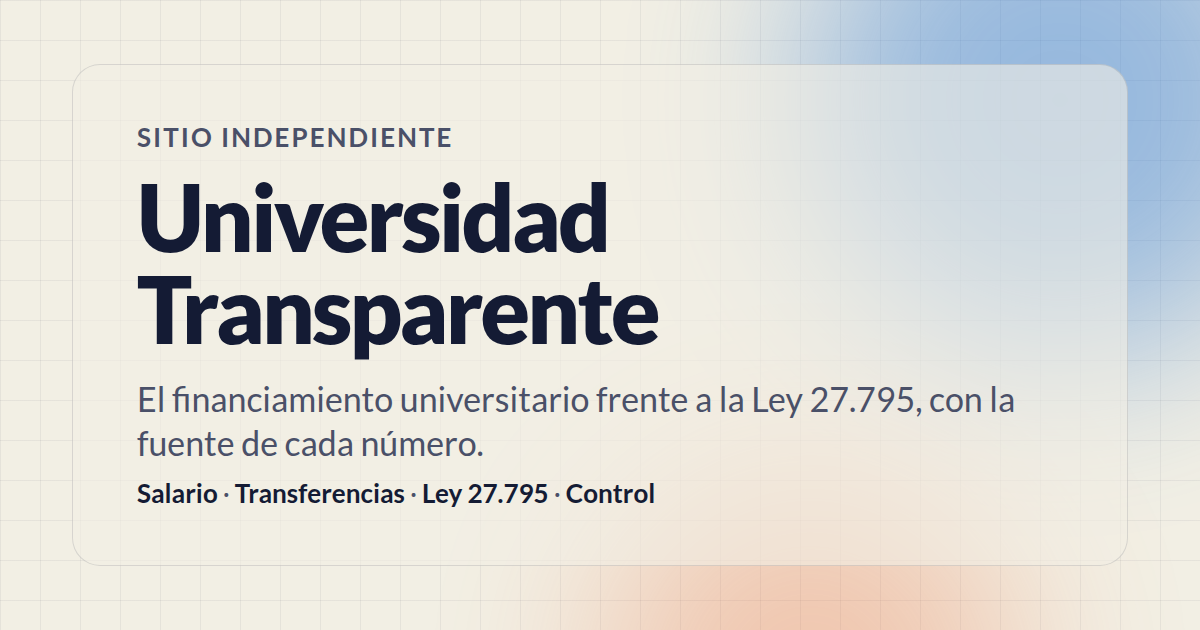
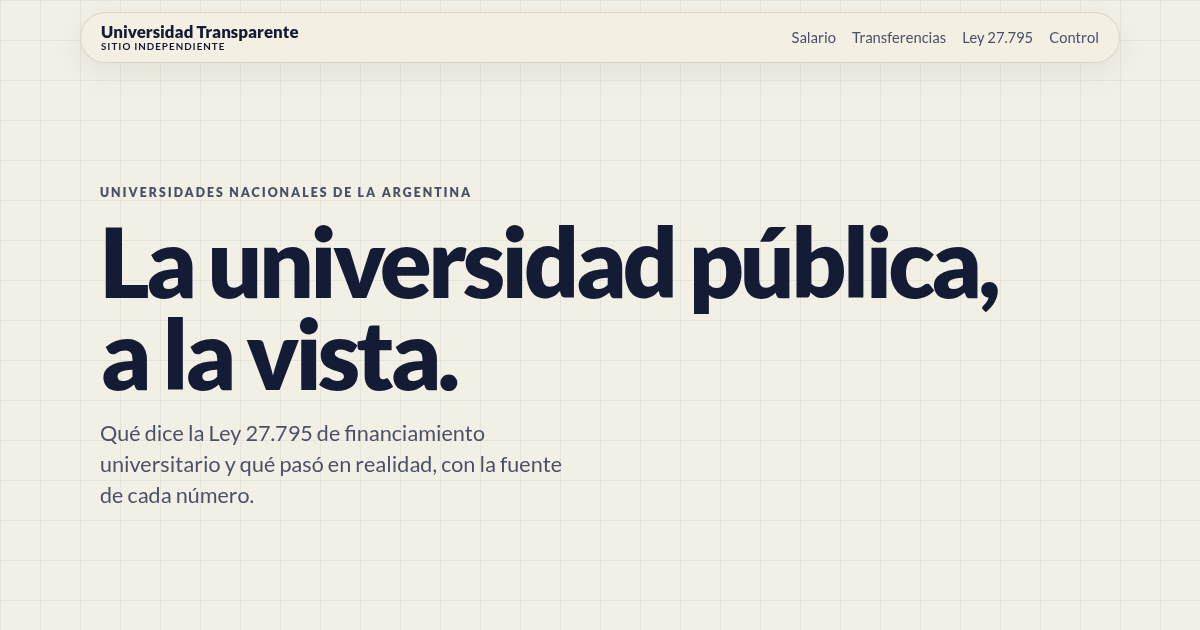
Vista previa al compartir: la imagen reproduce la portada del sitio

diff --git a/app/templates/base.html b/app/templates/base.html
@@ -17,7 +17,7 @@
   <meta property="og:image" content="{{ sitio }}/static/og.png">
   <meta property="og:image:width" content="1200">
   <meta property="og:image:height" content="630">
-  <meta property="og:image:alt" content="Universidad Transparente: el financiamiento universitario frente a la Ley 27.795, con la fuente de cada número.">
+  <meta property="og:image:alt" content="Portada de Universidad Transparente: «La universidad pública, a la vista.»">
   <meta name="twitter:card" content="summary_large_image">
   <meta name="twitter:title" content="Universidad Transparente · La universidad pública, a la vista">
   <meta name="twitter:description" content="{{ descripcion }}">
